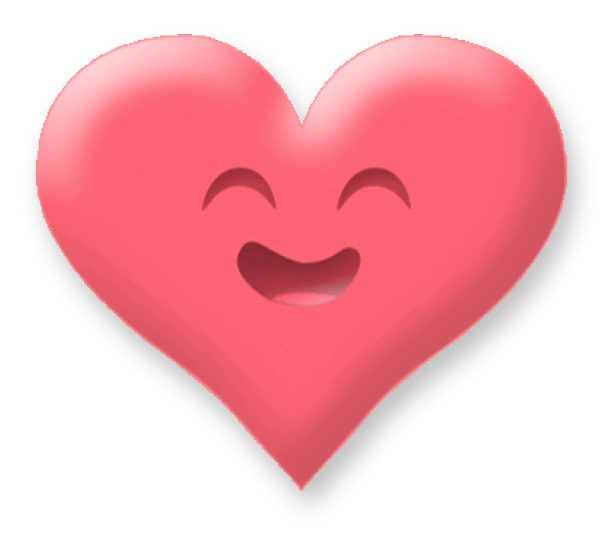
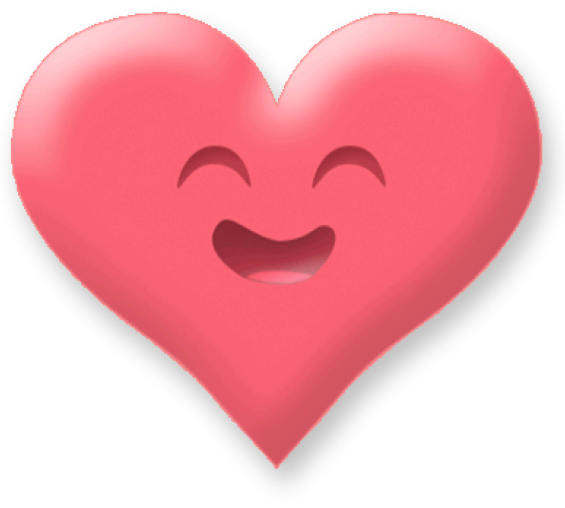
Tweak visuals to better match designs

diff --git a/lib/home_screen.dart b/lib/home_screen.dart
@@ -40,7 +40,7 @@ class HomeScreen extends StatelessWidget {
                       ),
                       const SizedBox(height: 24),
                       SizedBox(
-                        height: 100,
+                        height: 115,
                         child: Image.asset(
                           'assets/images/heart.png',
                           fit: BoxFit.fitHeight,
@@ -55,8 +55,7 @@ class HomeScreen extends StatelessWidget {
             ),
             Expanded(
               child: Button(
-                onPressed: () =>
-                    Navigator.of(context).pushNamed('friends-solo'),
+                onPressed: () => Navigator.of(context).pushNamed('friends'),
                 child: DecoratedBox(
                   decoration: BoxDecoration(
                     gradient: LinearGradient(
@@ -71,9 +70,9 @@ class HomeScreen extends StatelessWidget {
                   child: Column(
                     children: [
                       const Spacer(),
-                      const SizedBox(height: 100),
+                      const SizedBox(height: 120),
                       const SizedBox(
-                        height: 100,
+                        height: 115,
                         child: MaleFemaleConnectionImage(),
                       ),
                       const SizedBox(height: 24),

diff --git a/lib/voice_call_screen.dart b/lib/voice_call_screen.dart
@@ -28,7 +28,7 @@ class VoiceCallScreen extends StatelessWidget {
             child: Container(
               decoration: BoxDecoration(
                 borderRadius: const BorderRadius.all(
-                  Radius.circular(64),
+                  Radius.circular(48),
                 ),
                 boxShadow: [
                   BoxShadow(
@@ -129,8 +129,8 @@ class VoiceCallScreen extends StatelessWidget {
             child: Row(
               children: [
                 const Padding(
-                  padding: const EdgeInsets.symmetric(horizontal: 16.0),
-                  child: const Icon(Icons.call_end),
+                  padding: EdgeInsets.symmetric(horizontal: 16.0),
+                  child: Icon(Icons.call_end),
                 ),
                 Text(
                   'slide to end call',

diff --git a/lib/friends_home_screen.dart b/lib/friends_home_screen.dart
@@ -17,7 +17,8 @@ class FriendsHomeScreen extends StatelessWidget {
           children: [
             Expanded(
               child: Button(
-                onPressed: () {},
+                onPressed: () =>
+                    Navigator.of(context).pushNamed('friends-solo'),
                 child: Container(
                   decoration: BoxDecoration(
                     gradient: RadialGradient(
@@ -31,7 +32,7 @@ class FriendsHomeScreen extends StatelessWidget {
                     mainAxisAlignment: MainAxisAlignment.center,
                     children: [
                       const SizedBox(
-                        height: 150,
+                        height: 115,
                         child: MaleFemaleConnectionImage(),
                       ),
                       const SizedBox(height: 24),

diff --git a/lib/solo_friends_screen.dart b/lib/solo_friends_screen.dart
@@ -26,11 +26,12 @@ class SoloFriends extends StatelessWidget {
                     .headline
                     .copyWith(color: Theming.of(context).friendBlue2),
               ),
+              const SizedBox(height: 40),
               Stack(
                 alignment: Alignment.bottomCenter,
                 children: [
                   const SizedBox(
-                    height: 150,
+                    height: 115,
                     child: MaleFemaleConnectionImage(),
                   ),
                   Align(

diff --git a/lib/main.dart b/lib/main.dart
@@ -104,8 +104,8 @@ class _MyAppState extends State<MyApp> {
     return PageRouteBuilder(
       settings: settings,
       transitionsBuilder: transitionsBuilder ?? sideAnticipatePageTransition,
-      transitionDuration: const Duration(seconds: 1),
-      reverseTransitionDuration: const Duration(seconds: 1),
+      transitionDuration: const Duration(milliseconds: 750),
+      reverseTransitionDuration: const Duration(milliseconds: 650),
       pageBuilder: (_, __, ___) => Scaffold(body: child),
     );
   }

diff --git a/lib/male_female_connection_image.dart b/lib/male_female_connection_image.dart
@@ -1,3 +1,4 @@
+import 'package:flutter/material.dart';
 import 'package:flutter/widgets.dart';
 
 class MaleFemaleConnectionImage extends StatelessWidget {
@@ -27,7 +28,7 @@ class MaleFemaleConnectionImageApart extends StatelessWidget {
   @override
   Widget build(BuildContext context) {
     return SizedBox(
-      height: 100,
+      height: 70,
       child: Row(
         mainAxisAlignment: MainAxisAlignment.spaceBetween,
         children: [
